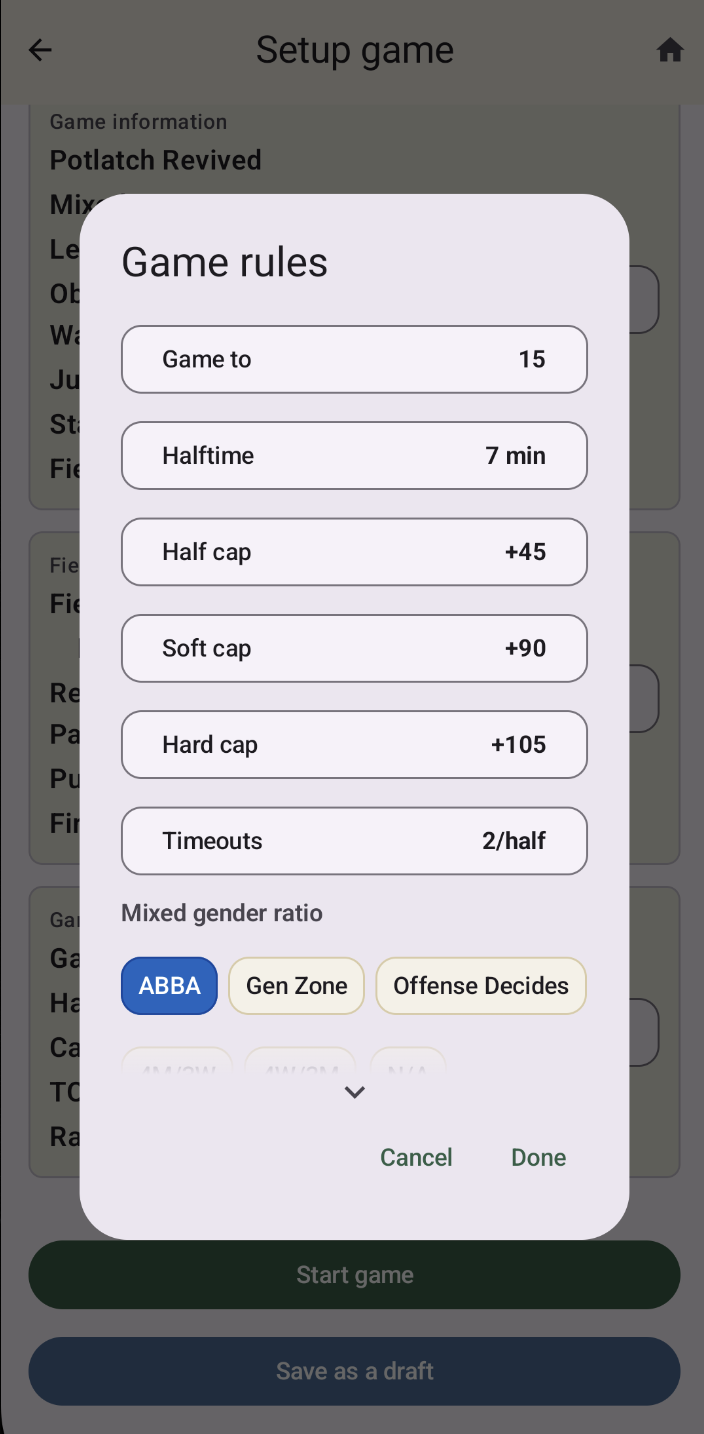
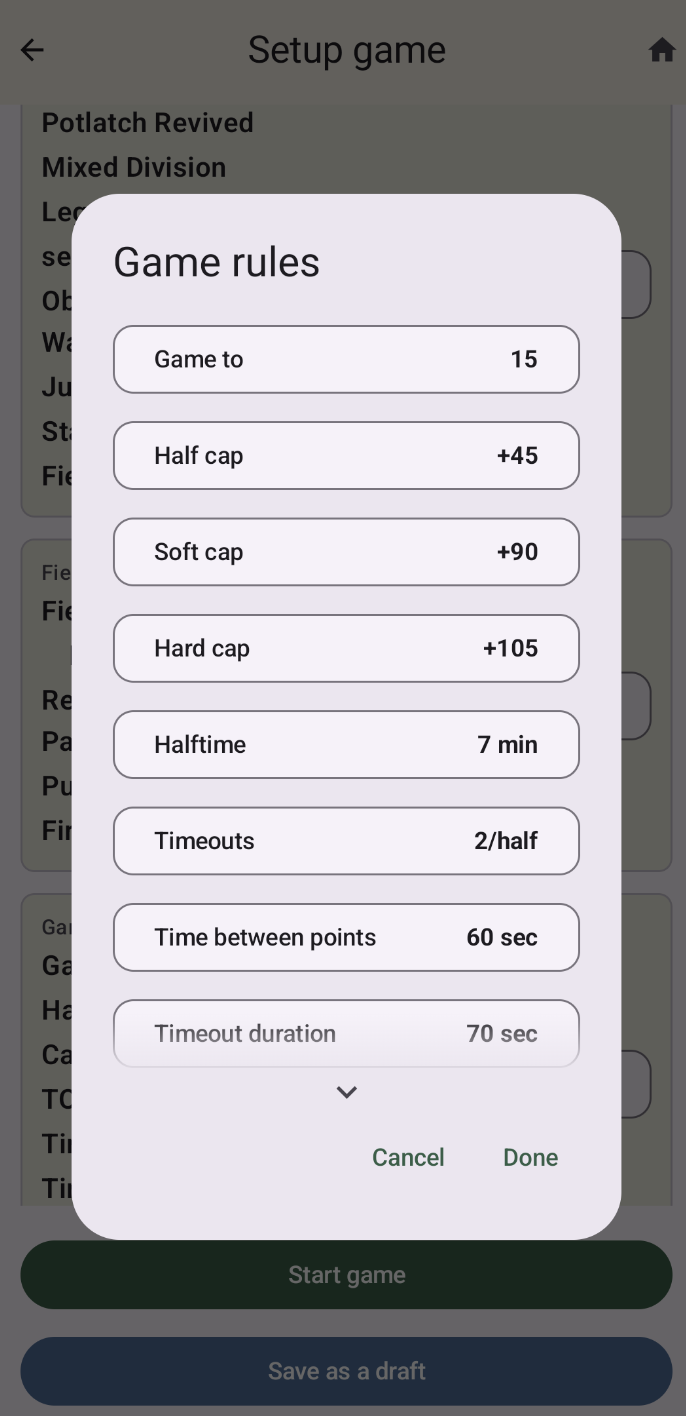
Update the GameRules image in docs

diff --git a/docs/setup-game.rst b/docs/setup-game.rst
@@ -146,7 +146,7 @@ Game Rules
 .. figure:: screen-shots/GameRules.png
    :class: phone-screenshot
    :target: _images/GameRules.png
-   :alt: Game rules section with game target, halftime, caps, timeouts, between-points timing, and mixed gender ratio
+   :alt: Game rules section with game target, halftime, caps, timeouts, time between points, and timeout duration
 
 This is where you can set the rules that apply to this game in case the tournament has any
 modifications from standard USAU rules.
